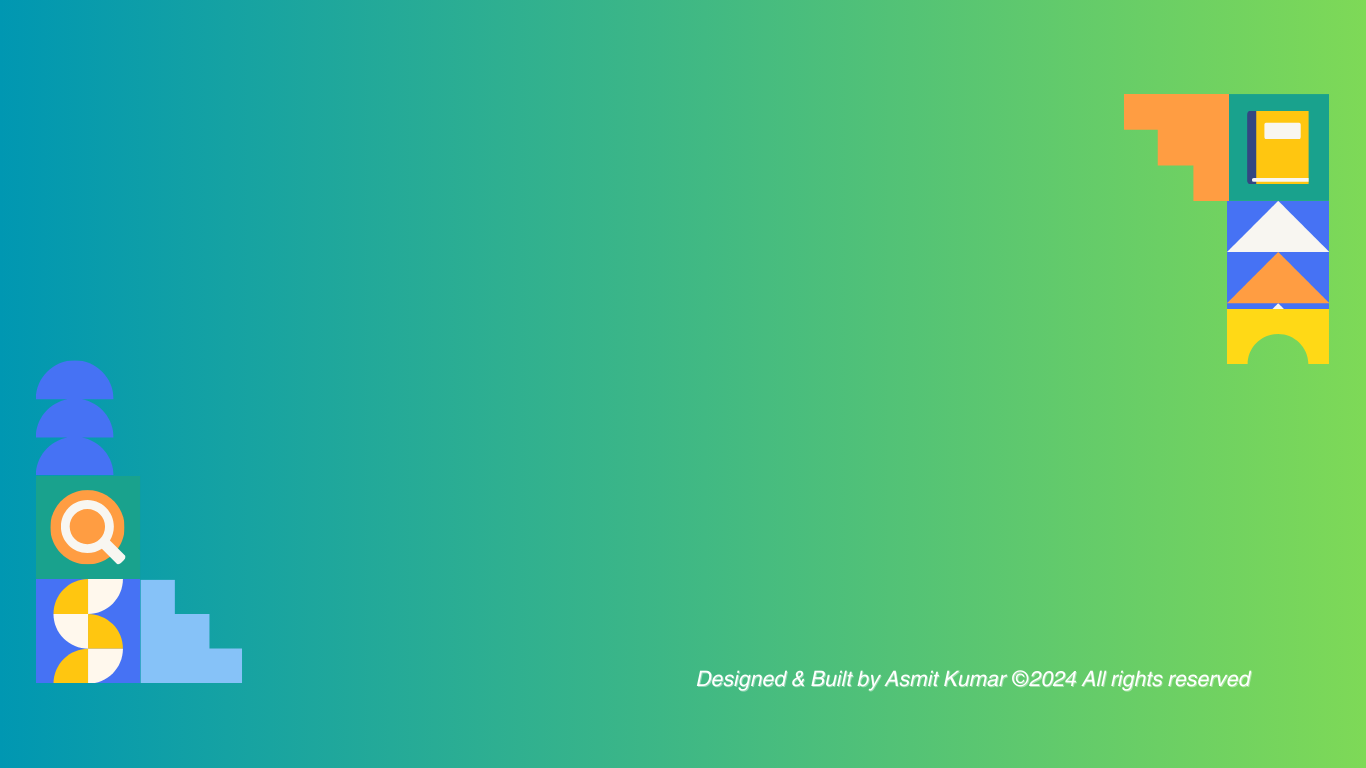
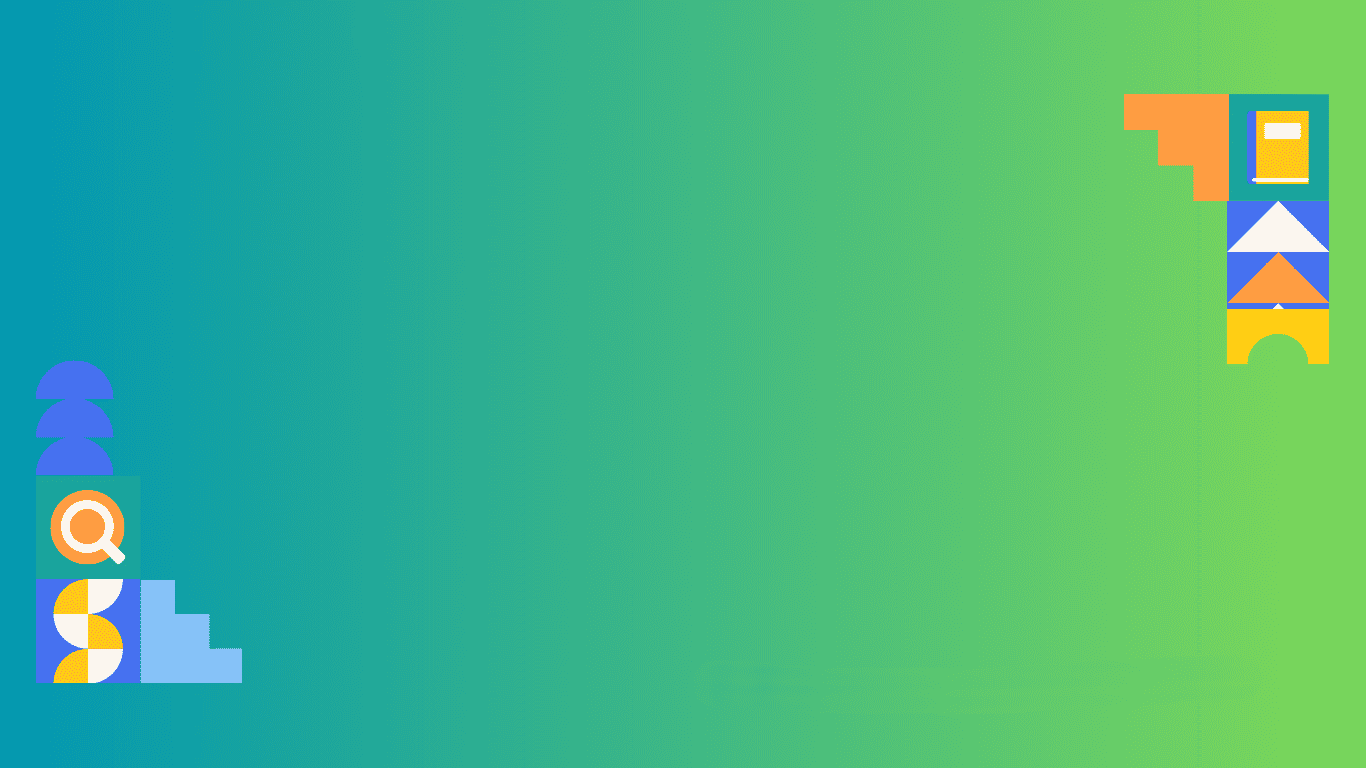
final

Changed region(s): [[0.4919, 0.875, 0.9224, 0.9062], [0.8917, 0.1562, 0.9531, 0.25], [0.0615, 0.8125, 0.0922, 0.8438]]

diff --git a/pages/index.html b/pages/index.html
@@ -6,6 +6,21 @@
     <title> Responsive Registration Form | Asmitk </title>
     <link rel="stylesheet" href="style.css">
     <meta name="viewport" content="width=device-width, initial-scale=1.0">
+
+    <style>
+        /* Your custom CSS styles go here */
+        .footer {
+            text-align: center;
+            position: fixed;
+            bottom: 0;
+            width: 100%;
+            background-color: #f8f9fa;
+            padding: 10px 0;
+            font-size: 12px;
+            color: #888;
+        }
+    </style>
+    
 </head>
 
 <body>
@@ -46,6 +61,11 @@
             
         </div>
     </div>
+
+    <div class="footer">
+        Design & Built by Asmit Kumar ©2024 All rights reserved
+    </div>
+
     <script>
         document.addEventListener("DOMContentLoaded", function() {
             document.getElementById("registrationForm").onsubmit = function(event) {
